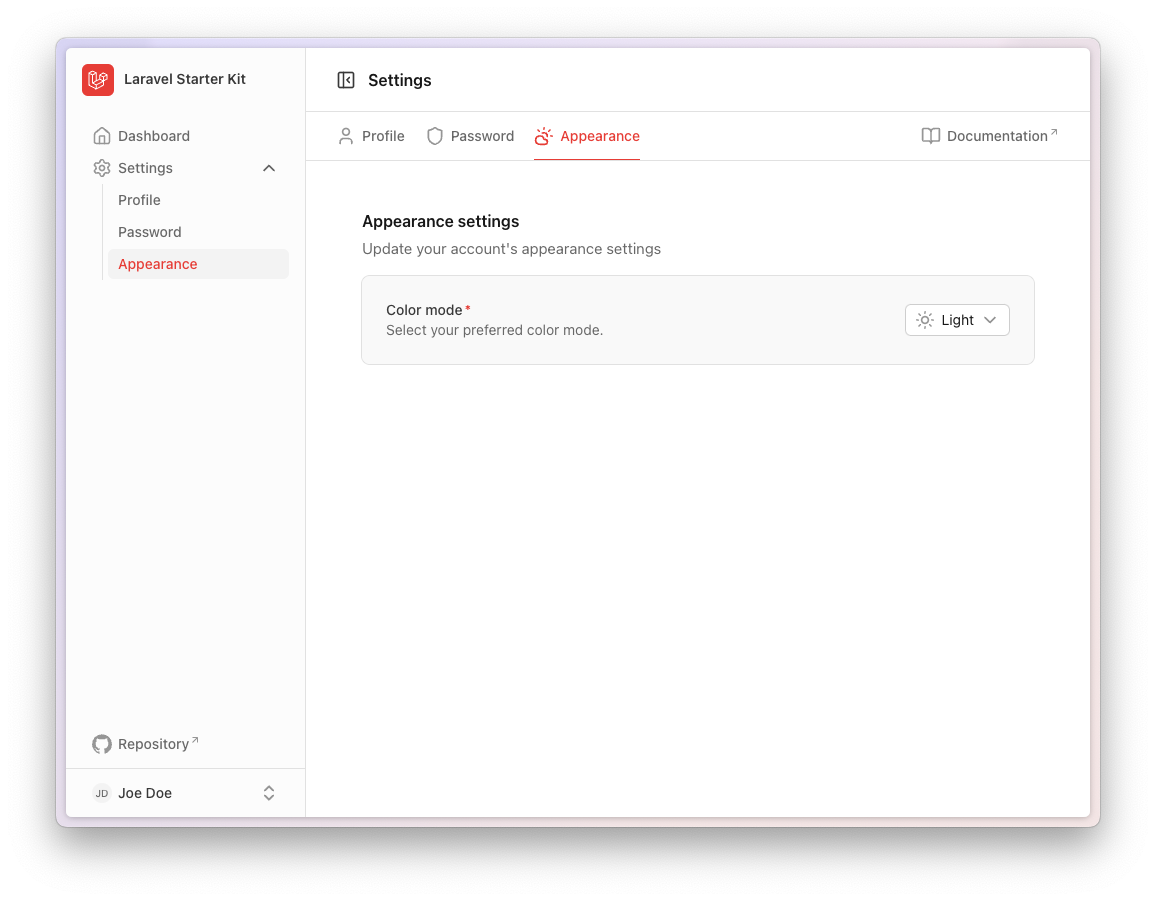
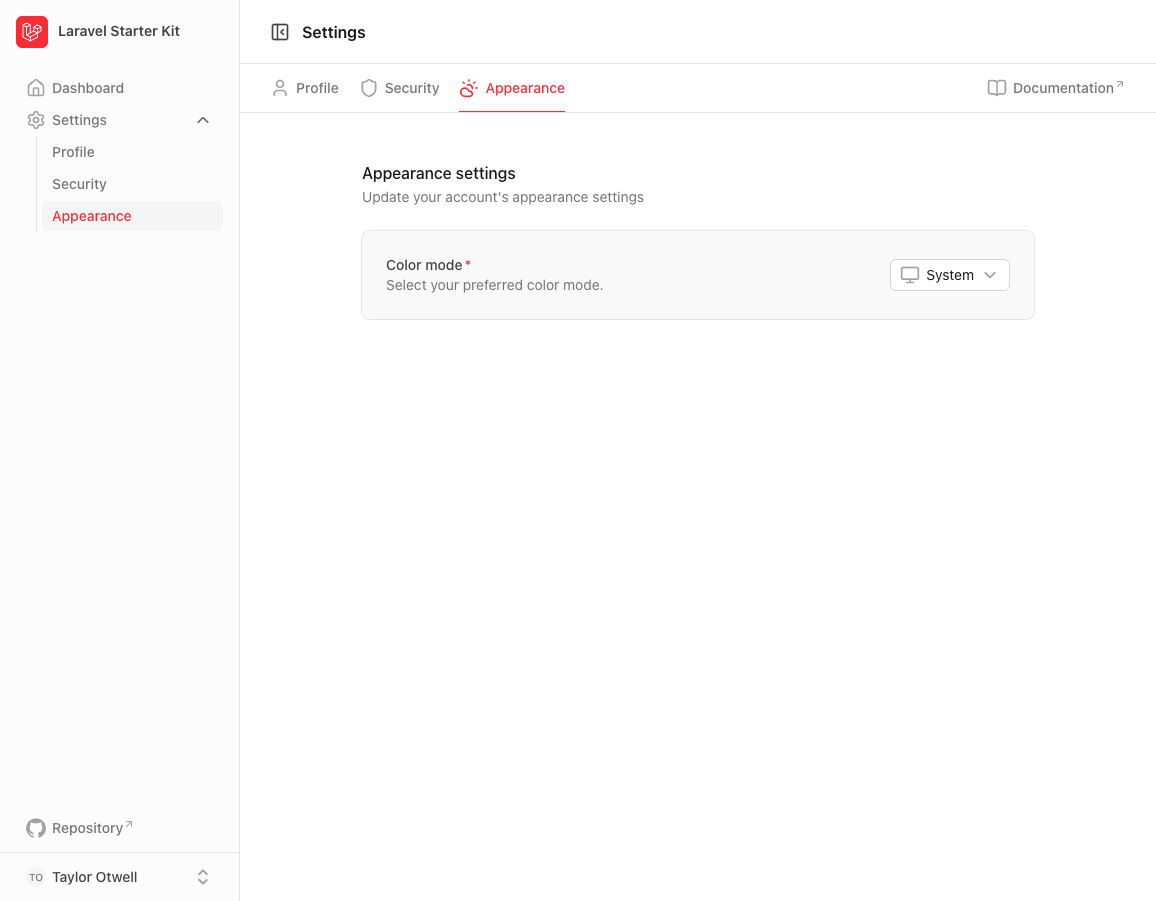
Update README screenshots for the new security settings page

diff --git a/README.md b/README.md
@@ -56,7 +56,7 @@ laravel new my-app --using=sti3bas/laravel-nuxt-ui-starter-kit
 ![Login](.github/screenshots/light/login.png)
 ![Dashboard](.github/screenshots/light/dashboard.png)
 ![Profile settings](.github/screenshots/light/profile-settings.png)
-![Password settings](.github/screenshots/light/password-settings.png)
+![Security settings](.github/screenshots/light/security-settings.png)
 ![Appearance settings](.github/screenshots/light/appearance-settings.png)
 
 <details>
@@ -66,7 +66,7 @@ laravel new my-app --using=sti3bas/laravel-nuxt-ui-starter-kit
 ![Login](.github/screenshots/dark/login.png)
 ![Dashboard](.github/screenshots/dark/dashboard.png)
 ![Profile settings](.github/screenshots/dark/profile-settings.png)
-![Password settings](.github/screenshots/dark/password-settings.png)
+![Security settings](.github/screenshots/dark/security-settings.png)
 ![Appearance settings](.github/screenshots/dark/appearance-settings.png)
 
 </details>
